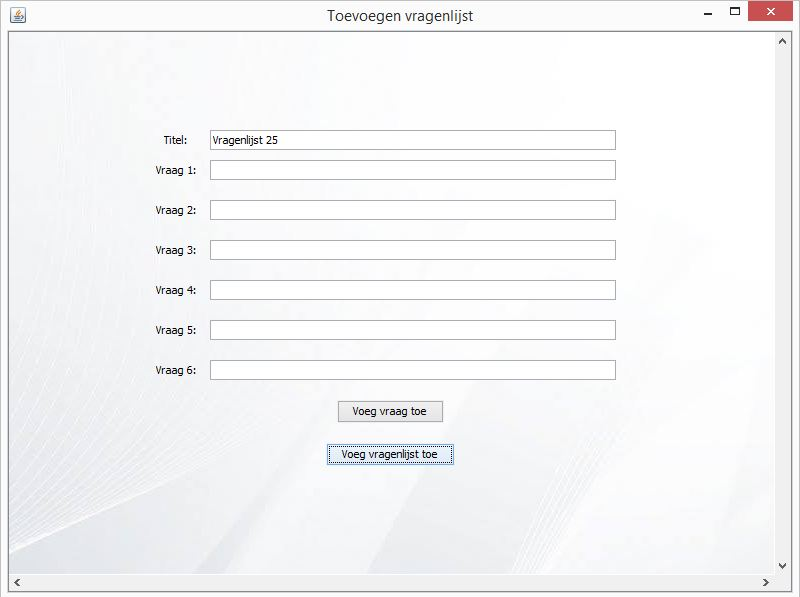
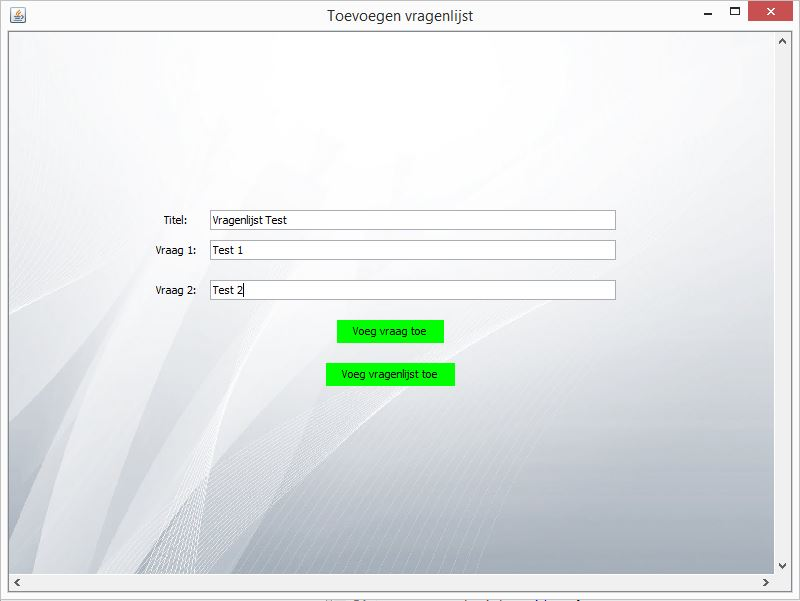
bug fixes

diff --git a/finah-desktop-java/src/net/finah/GUI/VraagToevoegenPanel.java b/finah-desktop-java/src/net/finah/GUI/VraagToevoegenPanel.java
@@ -40,11 +40,11 @@ public class VraagToevoegenPanel extends JFrame {
 
 	public VraagToevoegenPanel() {
 		super("Toevoegen vragenlijst");
-		icon = new ImageIcon("src/background.jpg");
+		icon = new ImageIcon(LoginPanel.class.getClassLoader().getResource("background.jpg"));
 		JPanel newPanel = new JPanel(new GridBagLayout()) {
 
 			protected void paintComponent(Graphics g) {
-				g.drawImage(icon.getImage(), 0, 0, null);
+				g.drawImage(icon.getImage(), 0, 0, this.getWidth(),this.getHeight(),this);
 				super.paintComponent(g);
 			}
 		};

diff --git a/finah-desktop-java/src/net/finah/GUI/MantelzorgerPanel.java b/finah-desktop-java/src/net/finah/GUI/MantelzorgerPanel.java
@@ -35,7 +35,7 @@ public class MantelzorgerPanel extends JFrame {
 
 	public MantelzorgerPanel() {
 		super("Toevoegen Mantelzorger");
-		icon = new ImageIcon("background.jpg");
+		icon = new ImageIcon(LoginPanel.class.getClassLoader().getResource("background.jpg"));
 		JPanel newPanel = new JPanel(new GridBagLayout()) {
 
 			protected void paintComponent(Graphics g) {

diff --git a/finah-desktop-java/src/net/finah/GUI/LoginPanel.java b/finah-desktop-java/src/net/finah/GUI/LoginPanel.java
@@ -33,7 +33,7 @@ public class LoginPanel extends JFrame {
 	public LoginPanel() {
 		super("Inloggen");
 
-		icon = new ImageIcon("background.jpg");
+		icon = new ImageIcon(LoginPanel.class.getClassLoader().getResource("background.jpg"));
 		JPanel newPanel = new JPanel(new GridBagLayout()) {
 
 			protected void paintComponent(Graphics g) {
